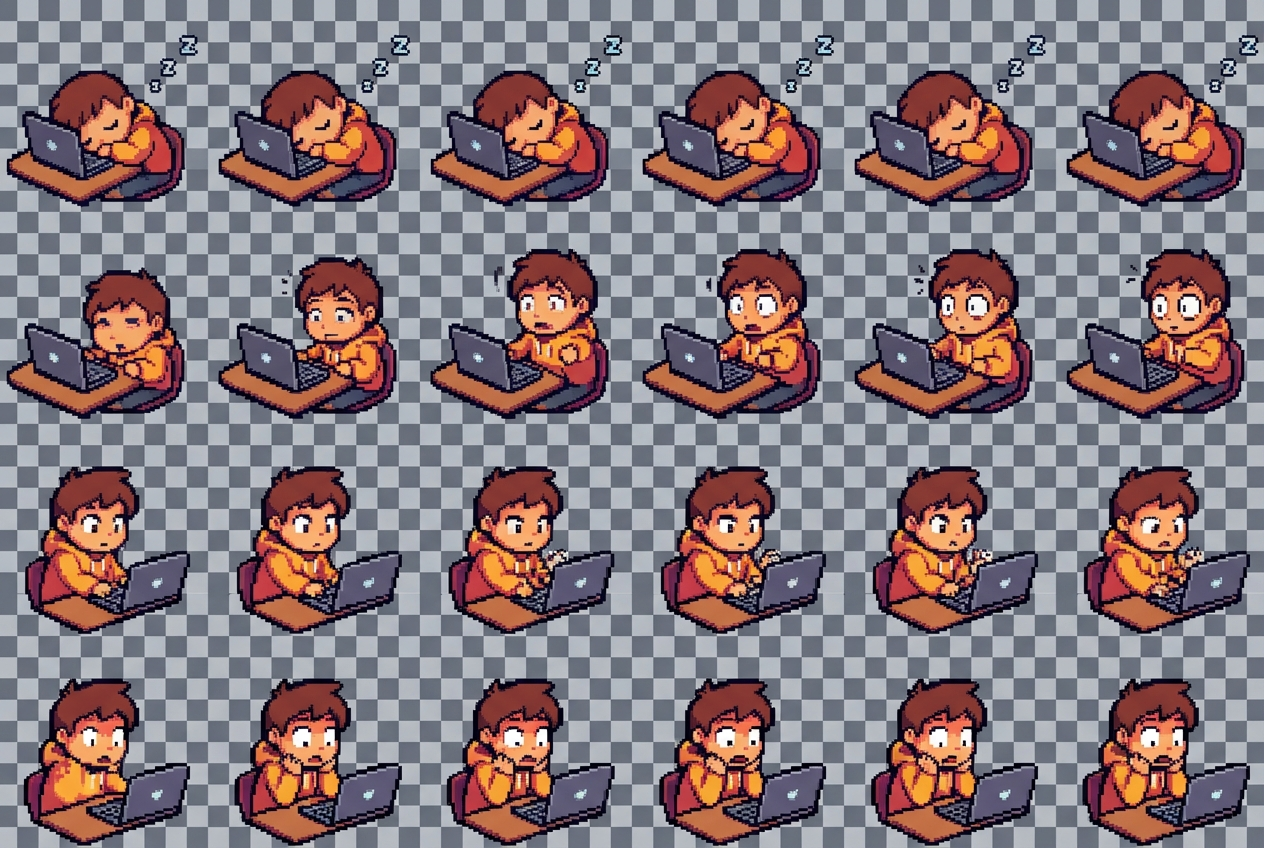
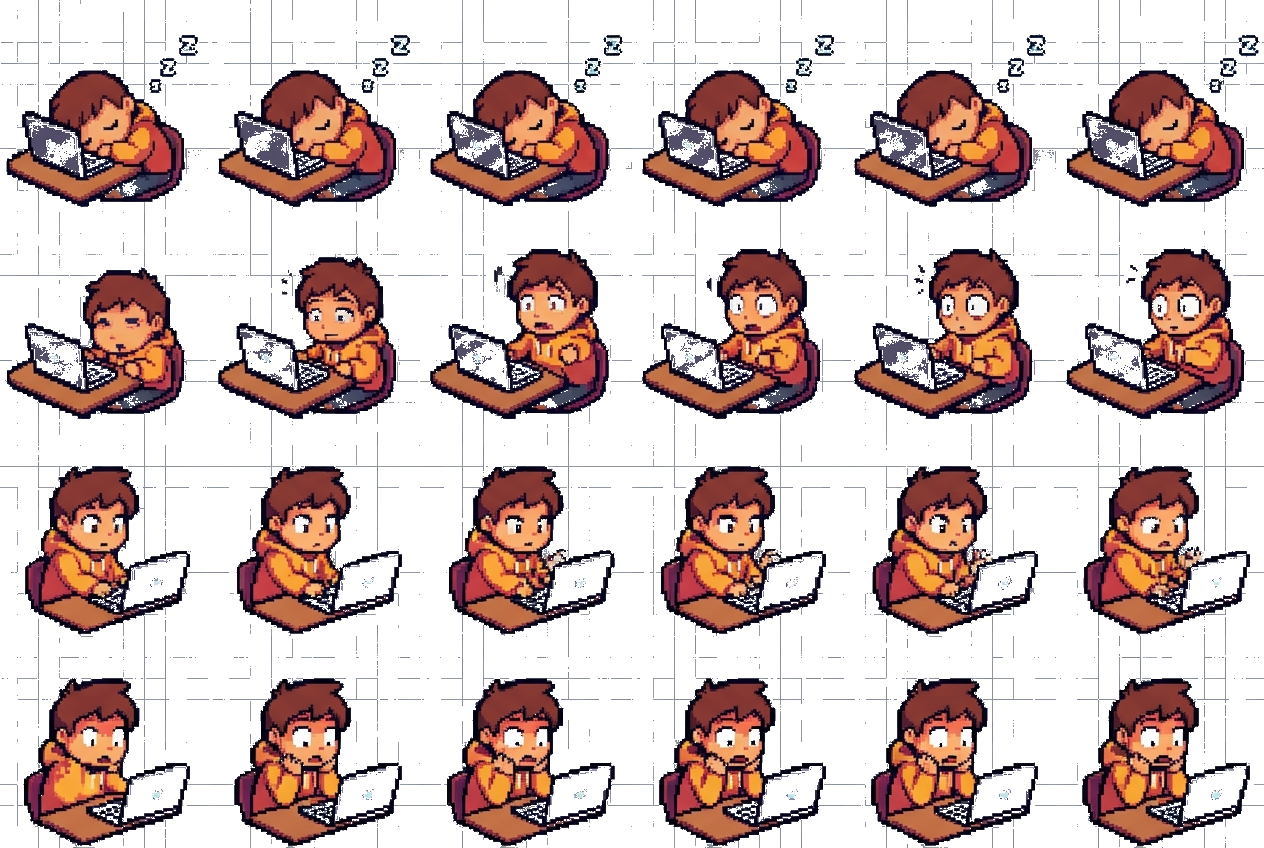
feat: strip checkerboard background from laptop-guy atlas, add alpha

diff --git a/scripts/strip-atlas-bg.js b/scripts/strip-atlas-bg.js
@@ -1,0 +1,63 @@
+// Strips the AI-generated checkerboard background from laptop-guy-atlas.png
+// and writes a new RGBA PNG with true transparency.
+
+const { createCanvas, loadImage } = require('canvas');
+const fs = require('fs');
+const path = require('path');
+
+const INPUT  = path.join(__dirname, '../renderer/assets/laptop-guy-atlas.png');
+const OUTPUT = INPUT;
+
+const TOLERANCE = 30;
+
+async function main() {
+  const img = await loadImage(INPUT);
+  const { width, height } = img;
+
+  const canvas = createCanvas(width, height);
+  const ctx = canvas.getContext('2d');
+  ctx.drawImage(img, 0, 0);
+
+  const data = ctx.getImageData(0, 0, width, height);
+  const px = data.data;
+
+  // Sample top-left 30x30 region for most common colors (background)
+  const colorCounts = new Map();
+  for (let y = 0; y < 30; y++) {
+    for (let x = 0; x < 30; x++) {
+      const i = (y * width + x) * 4;
+      const key = `${Math.round(px[i]/10)*10},${Math.round(px[i+1]/10)*10},${Math.round(px[i+2]/10)*10}`;
+      colorCounts.set(key, (colorCounts.get(key) || 0) + 1);
+    }
+  }
+
+  const sorted = [...colorCounts.entries()].sort((a, b) => b[1] - a[1]);
+  const bgColors = sorted.slice(0, 2).map(([key]) => key.split(',').map(Number));
+  console.log('Detected background colors:', bgColors);
+
+  function isBackground(r, g, b) {
+    return bgColors.some(([br, bg, bb]) =>
+      Math.abs(r - br) < TOLERANCE &&
+      Math.abs(g - bg) < TOLERANCE &&
+      Math.abs(b - bb) < TOLERANCE
+    );
+  }
+
+  let replaced = 0;
+  for (let i = 0; i < px.length; i += 4) {
+    if (isBackground(px[i], px[i+1], px[i+2])) {
+      px[i+3] = 0;
+      replaced++;
+    }
+  }
+
+  ctx.putImageData(data, 0, 0);
+  const buffer = canvas.toBuffer('image/png');
+  fs.writeFileSync(OUTPUT, buffer);
+
+  const total = width * height;
+  console.log(`Replaced ${replaced}/${total} pixels (${Math.round(replaced/total*100)}%)`);
+  console.log(`Saved RGBA PNG: ${OUTPUT} (${width}x${height})`);
+}
+
+main().catch(console.error);
